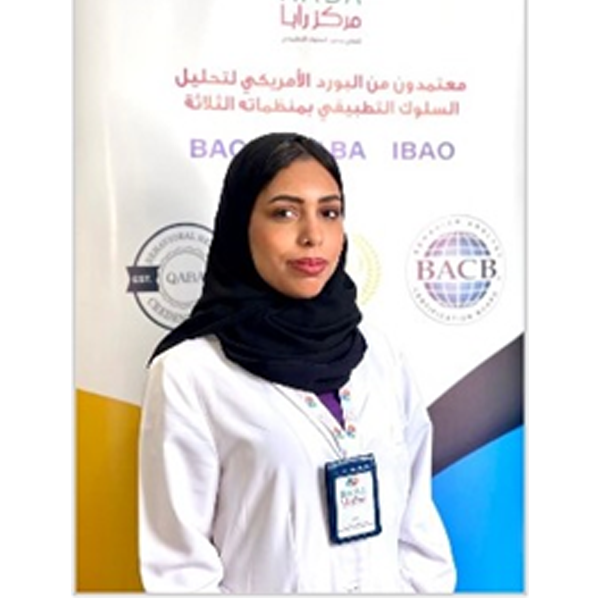
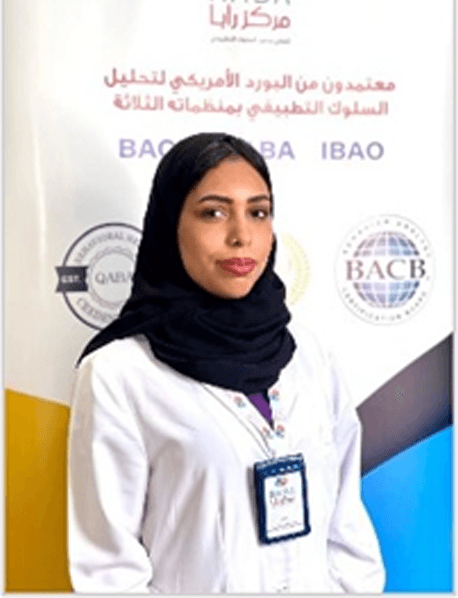
feat: redesign trainer cards and add Almaria font
Rebuild the trainer card to match the supplied reference: full-bleed
photo with a cream "top rated" chip and circular favourite button, a
teal uppercase specialty line paired with a cream star rating pill, a
large bold name, an icon'd credentials line, a divided stat block and a
full-width forest-green CTA.

Only real trainer data is shown. The reference's location, review count,
consult price and next-available slot have no equivalent in this
project's data, so those slots are left out rather than filled with
invented values; the stat block and credentials line render only when
the trainer actually has that field.

Typography: "Almaria" resolves to Almarai (المراعي) on npm — the Arabic
Google font — since no package named Almaria exists. It ships matched
Arabic and Latin subsets, so one family now covers RTL and LTR. Sora,
Inter and IBM Plex Sans Arabic are removed, and the WebGL card texture
(which sets its font imperatively and so can't inherit CSS) was updated
too.

Also:
- Replace Dr. Hanaa's photo with the new portrait supplied in the
  trainers folder, keeping the existing filename so imports are untouched.
- Trim baked-in white letterboxing from the other three photos so the
  card's photo area is full-bleed as in the reference, and re-encode all
  four (each is now smaller than before).
- Drop the trainers grid to 3 columns to match the reference proportions.
- Show favourited trainers on the Favourites page, so the card's heart
  isn't a dead end.

diff --git a/src/features/trainers/components/TrainerCard.tsx b/src/features/trainers/components/TrainerCard.tsx
@@ -1,4 +1,5 @@
 import { motion } from 'framer-motion'
+import { Award, Star } from 'lucide-react'
 import { useTranslation } from 'react-i18next'
 import { Link, useParams } from 'react-router'
 import ahmedImage from '@/assets/images/trainers/ahmed-abu-zaid.png'
@@ -6,7 +7,7 @@ import dohaImage from '@/assets/images/trainers/doha-khaled.png'
 import hanaaImage from '@/assets/images/trainers/hanaa-bashir.png'
 import hishamImage from '@/assets/images/trainers/hisham-salama.png'
 import type { Trainer } from '@/features/trainers/trainers.types'
-import { Card, RatingStars } from '@/shared/components/ui'
+import { FavoriteButton } from '@/shared/components/composed/FavoriteButton'
 
 const imageByTrainer: Record<Trainer['photo'], string> = {
   hanaa: hanaaImage,
@@ -15,40 +16,92 @@ const imageByTrainer: Record<Trainer['photo'], string> = {
   doha: dohaImage,
 }
 
+/** The reference design reserves a "top rated" flag for the strongest scores. */
+const TOP_RATED_THRESHOLD = 4.9
+
 export function TrainerCard({ trainer }: { trainer: Trainer }) {
   const { t } = useTranslation('trainers')
   const { locale } = useParams<{ locale: string }>()
+  const name = t(trainer.name)
+  const isTopRated = typeof trainer.rating === 'number' && trainer.rating >= TOP_RATED_THRESHOLD
 
   return (
-    <motion.div whileHover={{ y: -6 }} transition={{ type: 'spring', stiffness: 300, damping: 20 }}>
-      <Link to={`/${locale}/trainers/${trainer.slug}`}>
-        <Card className="h-full">
-          <Card.Media>
-            <img
-              src={imageByTrainer[trainer.photo]}
-              alt=""
-              aria-hidden
-              className="size-full object-cover"
-              loading="lazy"
-            />
-          </Card.Media>
-          <Card.Body>
-            <h3 className="font-bold text-neutral-900 dark:text-neutral-50">{t(trainer.name)}</h3>
-            <p className="text-primary-700 dark:text-primary-300 mt-1 text-sm font-semibold">
+    <motion.article
+      whileHover={{ y: -6 }}
+      transition={{ type: 'spring', stiffness: 300, damping: 20 }}
+      className="h-full"
+    >
+      <Link
+        to={`/${locale}/trainers/${trainer.slug}`}
+        className="group flex h-full flex-col overflow-hidden rounded-[20px] bg-white shadow-[0_1px_2px_rgba(16,24,40,0.06),0_8px_24px_-12px_rgba(16,24,40,0.18)] ring-1 ring-neutral-200/70 transition-shadow duration-300 hover:shadow-[0_2px_4px_rgba(16,24,40,0.06),0_18px_40px_-16px_rgba(16,24,40,0.28)] dark:bg-neutral-900 dark:ring-neutral-800"
+      >
+        <div className="relative aspect-7/6 w-full overflow-hidden bg-neutral-100 dark:bg-neutral-800">
+          <img
+            src={imageByTrainer[trainer.photo]}
+            alt=""
+            aria-hidden
+            loading="lazy"
+            className="size-full object-cover object-top transition-transform duration-500 group-hover:scale-[1.04]"
+          />
+
+          {isTopRated && (
+            <span className="bg-card-badge text-card-badge-text absolute start-4 top-4 rounded-full px-3 py-1.5 text-[11px] font-extrabold tracking-[0.12em] uppercase">
+              {t('card.topRated')}
+            </span>
+          )}
+
+          <FavoriteButton
+            id={trainer.id}
+            name={name}
+            className="absolute end-4 top-4 size-10 shadow-md ring-0"
+          />
+        </div>
+
+        <div className="flex flex-1 flex-col p-5 sm:p-6">
+          <div className="flex items-start justify-between gap-3">
+            {/* Roles here run much longer than the reference's one-word specialty,
+                so they're clamped to a fixed two-line box to keep names aligned
+                across a row. The full role is shown on the profile page. */}
+            <p className="text-card-accent dark:text-card-accent-soft line-clamp-2 min-h-9 text-[13px] leading-[1.35] font-extrabold tracking-[0.08em] uppercase">
               {t(trainer.role)}
             </p>
             {typeof trainer.rating === 'number' && (
-              <RatingStars value={trainer.rating} className="mt-2" />
+              <span className="bg-card-chip inline-flex shrink-0 items-center gap-1 rounded-full px-2.5 py-1 text-sm font-bold text-neutral-900 dark:bg-neutral-800 dark:text-neutral-50">
+                <Star className="fill-card-star text-card-star size-3.5" aria-hidden />
+                {trainer.rating.toFixed(1)}
+              </span>
             )}
-            <p className="mt-2 line-clamp-2 text-sm text-neutral-500 dark:text-neutral-400">
-              {t(trainer.bio)}
+          </div>
+
+          <h3 className="mt-2 line-clamp-2 min-h-15 text-2xl leading-tight font-extrabold text-neutral-900 dark:text-neutral-50">
+            {name}
+          </h3>
+
+          {trainer.qualifications && (
+            <p className="mt-2 flex items-start gap-1.5 text-sm text-neutral-500 dark:text-neutral-400">
+              <Award className="mt-0.5 size-4 shrink-0" aria-hidden />
+              <span className="line-clamp-2">{t(trainer.qualifications)}</span>
             </p>
-            <span className="text-primary-600 dark:text-primary-400 mt-4 inline-block text-sm font-semibold hover:underline">
+          )}
+
+          {trainer.experience && (
+            <div className="mt-5 border-t border-neutral-200 pt-4 dark:border-neutral-800">
+              <p className="text-xl font-extrabold text-neutral-900 dark:text-neutral-50">
+                {t(trainer.experience)}
+              </p>
+              <p className="mt-0.5 text-[11px] font-semibold tracking-[0.1em] text-neutral-400 uppercase">
+                {t('card.experienceLabel')}
+              </p>
+            </div>
+          )}
+
+          <div className="mt-auto border-t border-neutral-200 pt-4 dark:border-neutral-800">
+            <span className="bg-card-cta hover:bg-card-cta-hover inline-flex w-full items-center justify-center rounded-full px-6 py-3 text-sm font-bold text-white transition-colors">
               {t('viewProfile')}
             </span>
-          </Card.Body>
-        </Card>
+          </div>
+        </div>
       </Link>
-    </motion.div>
+    </motion.article>
   )
 }

diff --git a/src/styles/index.css b/src/styles/index.css
@@ -1,10 +1,14 @@
 @import 'tailwindcss';
-@import '@fontsource-variable/sora';
-@import '@fontsource-variable/inter';
-@import '@fontsource/ibm-plex-sans-arabic/400.css';
-@import '@fontsource/ibm-plex-sans-arabic/500.css';
-@import '@fontsource/ibm-plex-sans-arabic/600.css';
-@import '@fontsource/ibm-plex-sans-arabic/700.css';
+/* Almarai — single primary typeface for the whole site. Ships matched Arabic +
+   Latin subsets, so RTL and LTR copy share one family (weights: 300/400/700/800). */
+@import '@fontsource/almarai/300.css';
+@import '@fontsource/almarai/400.css';
+@import '@fontsource/almarai/700.css';
+@import '@fontsource/almarai/800.css';
+@import '@fontsource/almarai/arabic-300.css';
+@import '@fontsource/almarai/arabic-400.css';
+@import '@fontsource/almarai/arabic-700.css';
+@import '@fontsource/almarai/arabic-800.css';
 
 /* Class-based dark mode (Tailwind v4 defaults to prefers-color-scheme only) */
 @custom-variant dark (&:where(.dark, .dark *));
@@ -45,16 +49,31 @@
   --color-neutral-800: #16222f;
   --color-neutral-950: #0a1929;
 
+  /* Trainer-card palette, taken from the approved card reference: forest-green
+     CTA, teal specialty label, and warm cream chips for the rating/top-rated. */
+  --color-card-accent: #0e6e5b;
+  --color-card-accent-soft: #6fd3bb;
+  --color-card-cta: #14543f;
+  --color-card-cta-hover: #0f4433;
+  --color-card-chip: #f4eee1;
+  --color-card-badge: #fbf1d9;
+  --color-card-badge-text: #6b5b23;
+  --color-card-star: #f2a93b;
+
   --color-success-500: #22a06b;
   --color-warning-500: #e9a23b;
   --color-danger-500: #e4574c;
   --color-info-500: #3b82c4;
 
-  /* Typography */
-  --font-heading-latin: 'Sora Variable', system-ui, sans-serif;
-  --font-heading-arabic: 'IBM Plex Sans Arabic', system-ui, sans-serif;
-  --font-body-latin: 'Inter Variable', system-ui, sans-serif;
-  --font-body-arabic: 'IBM Plex Sans Arabic', system-ui, sans-serif;
+  /* Typography — Almarai everywhere, Arabic and Latin alike. */
+  --font-almarai: 'Almarai', system-ui, sans-serif;
+  --font-heading-latin: var(--font-almarai);
+  --font-heading-arabic: var(--font-almarai);
+  --font-body-latin: var(--font-almarai);
+  --font-body-arabic: var(--font-almarai);
+  /* Tailwind's `font-sans` utility resolves here too, so any component using it
+     (or inheriting from body) picks up Almarai without a per-component override. */
+  --font-sans: var(--font-almarai);
 }
 
 html {
@@ -67,29 +86,27 @@ html.dark {
 
 body {
   @apply bg-neutral-50 text-neutral-700 antialiased dark:bg-neutral-950 dark:text-neutral-300;
-  font-family: var(--font-body-latin);
-}
-
-html[lang='ar'] body {
-  font-family: var(--font-body-arabic);
+  font-family: var(--font-almarai);
 }
 
 h1,
 h2,
+h3,
 h4,
 h5,
 h6 {
   @apply text-neutral-900 dark:text-neutral-50;
-  font-family: var(--font-heading-latin);
+  font-family: var(--font-almarai);
 }
 
-html[lang='ar'] h1,
-html[lang='ar'] h2,
-html[lang='ar'] h3,
-html[lang='ar'] h4,
-html[lang='ar'] h5,
-html[lang='ar'] h6 {
-  font-family: var(--font-heading-arabic);
+/* Form controls don't inherit font-family by default in every engine — pin them
+   explicitly so buttons, inputs and dialogs can't fall back to a system face. */
+button,
+input,
+optgroup,
+select,
+textarea {
+  font-family: inherit;
 }
 
 @keyframes marquee {

diff --git a/src/pages/FavoritesPage.tsx b/src/pages/FavoritesPage.tsx
@@ -3,16 +3,20 @@ import { Link, useParams } from 'react-router'
 import { CourseCard } from '@/features/courses/components/CourseCard'
 import { useCourses } from '@/features/courses/hooks/useCourses'
 import { useFavoritesStore } from '@/features/favorites/store/useFavoritesStore'
+import { TrainerCard } from '@/features/trainers/components/TrainerCard'
+import { useTrainers } from '@/features/trainers/hooks/useTrainers'
 import { Button } from '@/shared/components/ui'
 
 export default function FavoritesPage() {
   const { t } = useTranslation('account')
   const { locale = 'ar' } = useParams<{ locale: string }>()
   const { courses } = useCourses()
+  const { trainers } = useTrainers()
   const favoriteIds = useFavoritesStore((state) => state.ids)
   const favoriteCourses = courses.filter((course) => favoriteIds.includes(course.id))
+  const favoriteTrainers = trainers.filter((trainer) => favoriteIds.includes(trainer.id))
 
-  if (favoriteCourses.length === 0) {
+  if (favoriteCourses.length === 0 && favoriteTrainers.length === 0) {
     return (
       <div className="mx-auto flex max-w-6xl flex-col items-center gap-4 px-4 py-20 text-center sm:px-6">
         <p className="text-neutral-500 dark:text-neutral-400">{t('favorites.empty')}</p>
@@ -24,12 +28,22 @@ export default function FavoritesPage() {
   }
 
   return (
-    <div className="mx-auto max-w-6xl px-4 py-10 sm:px-6">
-      <div className="grid grid-cols-1 gap-6 sm:grid-cols-2 lg:grid-cols-3">
-        {favoriteCourses.map((course) => (
-          <CourseCard key={course.id} course={course} />
-        ))}
-      </div>
+    <div className="mx-auto flex max-w-6xl flex-col gap-10 px-4 py-10 sm:px-6">
+      {favoriteCourses.length > 0 && (
+        <div className="grid grid-cols-1 gap-6 sm:grid-cols-2 lg:grid-cols-3">
+          {favoriteCourses.map((course) => (
+            <CourseCard key={course.id} course={course} />
+          ))}
+        </div>
+      )}
+
+      {favoriteTrainers.length > 0 && (
+        <div className="grid grid-cols-1 gap-6 sm:grid-cols-2 lg:grid-cols-3">
+          {favoriteTrainers.map((trainer) => (
+            <TrainerCard key={trainer.id} trainer={trainer} />
+          ))}
+        </div>
+      )}
     </div>
   )
 }

diff --git a/src/features/trainers/components/wave/createTrainerCardTexture.ts b/src/features/trainers/components/wave/createTrainerCardTexture.ts
@@ -62,11 +62,11 @@ export function createTrainerCardTexture(
 
   ctx.textAlign = 'center'
   ctx.fillStyle = isDark ? '#fafafa' : '#171717'
-  ctx.font = '700 40px "IBM Plex Sans Arabic", "Sora", system-ui, sans-serif'
+  ctx.font = '700 40px "Almarai", system-ui, sans-serif'
   ctx.fillText(name, WIDTH / 2, panelTop + 66, WIDTH - 48)
 
   ctx.fillStyle = '#5b5fef'
-  ctx.font = '600 30px "IBM Plex Sans Arabic", "Inter", system-ui, sans-serif'
+  ctx.font = '700 30px "Almarai", system-ui, sans-serif'
   ctx.fillText(role, WIDTH / 2, panelTop + 118, WIDTH - 48)
 
   const texture = new THREE.CanvasTexture(canvas)

diff --git a/src/pages/TrainersPage.tsx b/src/pages/TrainersPage.tsx
@@ -23,7 +23,7 @@ export default function TrainersPage() {
       ) : canShowWaveCarousel ? (
         <TrainerWaveCarousel trainers={trainers} />
       ) : (
-        <div className="grid grid-cols-1 gap-6 sm:grid-cols-2 lg:grid-cols-4">
+        <div className="grid grid-cols-1 gap-6 sm:grid-cols-2 lg:grid-cols-3">
           {trainers.map((trainer, index) => (
             <motion.div
               key={trainer.id}
